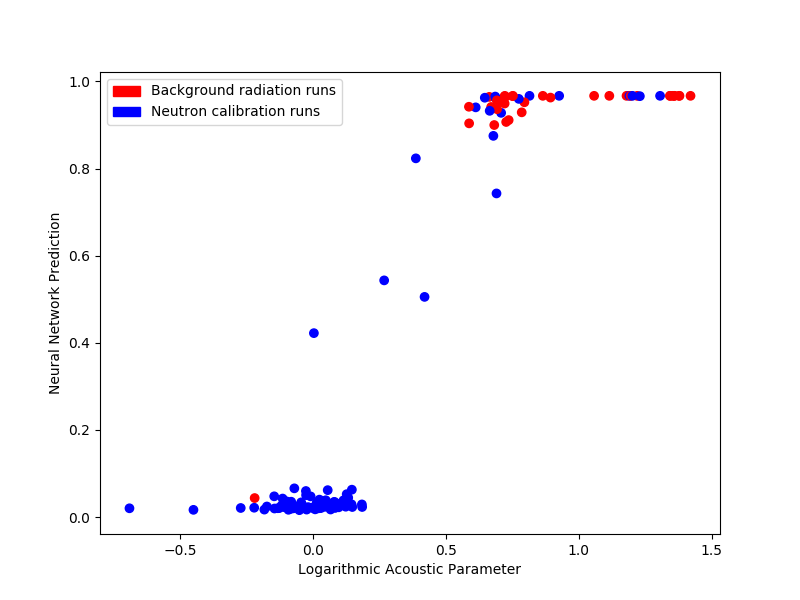
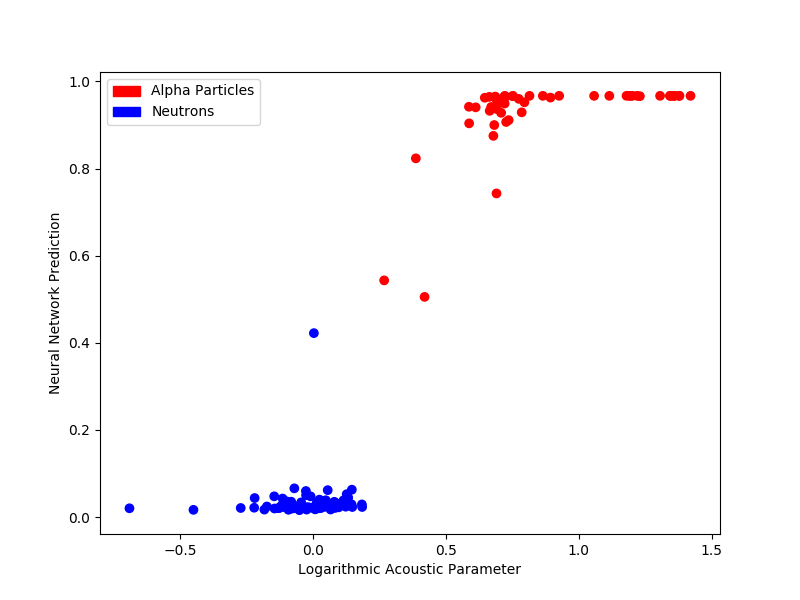
Switched out graphs to highlight particle types rather than run types

diff --git a/documentation/paper.tex b/documentation/paper.tex
@@ -557,21 +557,9 @@ This function is applied in a training algorithm that is parameterized by the se
 
 This system was trained using a multi-layer perceptron with an 8-band Fourier transform input for $NN(x)$, because this was one of the most successful configurations in supervised learning. It produced the highest accuracy as well as the lowest class-wise standard deviation.
 
-\begin{figure}[H]
-    \centering
-    \includegraphics[width=\textwidth]{grav_opt_validation}
-    \caption{\label{grav_opt_validation} Accuracy of best gravitational differentiation training run compared to Acoustic Parameter (98\% accuracy).}
-\end{figure}
-
-\begin{figure}[H]
-    \centering
-    \includegraphics[width=\textwidth]{grav_acc_by_hyper}
-    \caption{\label{grav_acc_by_hyper} Accuracy of gravitational differentiation as a function of hyperparameter values.}
-\end{figure}
-
 \subsubsection{Results}
 
-During a grid search of parameters of the gravitational differentiation algorithm (in addition to the stochastic gradient descent learning rate), the algorithm achieved a maximum of 98\% validation accuracy. The mean over that run (also the highest overall) was 96\%. Figure \ref{grav_opt_validation} shows the highly accurate replication of Acoustic Parameter.
+During a grid search of parameters of the gravitational differentiation algorithm (in addition to the stochastic gradient descent learning rate), the algorithm achieved a maximum of 98\% validation accuracy. The mean over that run (also the highest overall) was 96\%. Figure \ref{grav_grid_search} shows the highly accurate replication of Acoustic Parameter.
 
 As seen in Figure \ref{grav_acc_by_hyper}, all 3 hyperparameters that were optimized during the grid search had a significant effect on accuracy:
 
@@ -584,6 +572,18 @@ As seen in Figure \ref{grav_acc_by_hyper}, all 3 hyperparameters that were optim
 Two different options were tested with regard to size of the labeled data set $\varsigma$. Out of a set of 496 total examples available for training, either 128 (approximately $1/4$ of the total set) or 256 (approximately $1/2$) were used as labeled data. Over the entire grid search, runs with 128 examples in $\varsigma$ produced on average 64\% more errors on validation data, compared to those with 256 examples.
 
 !!!Include table on grid search!!!
+
+\begin{figure}[H]
+    \centering
+    \includegraphics[width=\textwidth]{grav_grid_search}
+    \caption{\label{grav_grid_search} Accuracy of best gravitational differentiation training run compared to Acoustic Parameter (98\% accuracy).}
+\end{figure}
+
+\begin{figure}[H]
+    \centering
+    \includegraphics[width=\textwidth]{grav_acc_by_hyper}
+    \caption{\label{grav_acc_by_hyper} Accuracy of gravitational differentiation as a function of hyperparameter values.}
+\end{figure}
 
 \subsection{Iterative Cluster Nucleation}
 
@@ -632,13 +632,13 @@ As seen in Figure \ref{icn_grid_search}, the network learned to replicate Acoust
 
 Digging deeper into the performance throughout the runs of the grid search, Figure \ref{icn_acc_by_hyper} shows the mean accuracy as a function of each of the hyperparameters that were optimized. Dropout has a clear effect, with 25\% shown to be the optimal number of neurons to drop. L2 regularization is also significant; all $\lambda$ values greater than 0 make performance worse.
 
+Compared to gravitational differentiation, there is a larger delta between the number of errors on the validation set depending on the number of initial training examples used. Those with 128 examples in $\varsigma$ make 85\% more errors on average. However, iterative cluster nucleation with 128 examples still makes 19\% fewer errors than gravitational differentiation with 256 examples in $\varsigma$.
+
 \begin{figure}[H]
     \centering
     \includegraphics[width=\textwidth]{icn_acc_by_hyper}
     \caption{\label{icn_acc_by_hyper} Mean accuracy of iterative cluster nucleation as a function of hyperparameter values.}
 \end{figure}
-
-Compared to gravitational differentiation, there is a larger delta between the number of errors on the validation set depending on the number of initial training examples used. Those with 128 examples in $\varsigma$ make 85\% more errors on average. However, iterative cluster nucleation with 128 examples still makes 19\% fewer errors than gravitational differentiation with 256 examples in $\varsigma$.
 
 \subsection{Performance Summary}
 
